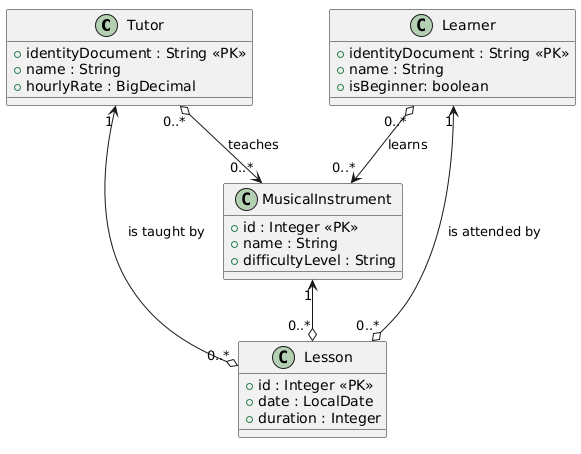
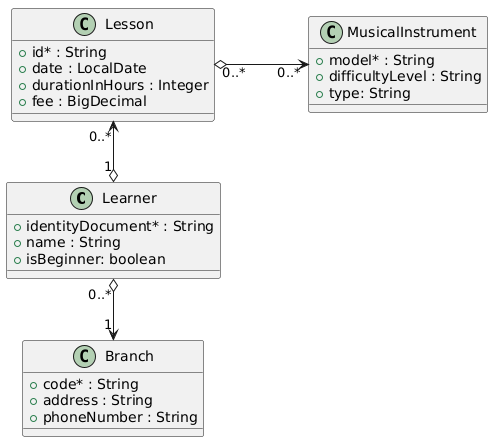
Refactor music-lesson domain model #842

diff --git a/src/main/java/es/upm/miw/apaw_practice/domain/models/music_lesson/Lesson.java b/src/main/java/es/upm/miw/apaw_practice/domain/models/music_lesson/Lesson.java
@@ -1,64 +1,47 @@
 package es.upm.miw.apaw_practice.domain.models.music_lesson;
 
+import java.math.BigDecimal;
 import java.time.LocalDate;
+import java.util.List;
 
 public class Lesson {
 
-  private Integer id;
+  private String id;
 
   private LocalDate date;
 
-  private Tutor tutor;
-
-  private Learner learner;
-
   private Integer durationInHours;
 
-  private MusicalInstrument musicalInstrument;
+  private BigDecimal fee;
+
+  private List<MusicalInstrument> musicalInstrument;
 
   public Lesson() {
     //Empty for framework
   }
 
-  public Lesson(Integer id, LocalDate date, Tutor tutor, Learner learner, Integer durationInHours, MusicalInstrument musicalInstrument) {
+  public Lesson(String id, LocalDate date, Integer durationInHours, BigDecimal fee, List<MusicalInstrument> musicalInstrument) {
     this.id = id;
     this.date = date;
-    this.tutor = tutor;
-    this.learner = learner;
     this.durationInHours = durationInHours;
+    this.fee = fee;
     this.musicalInstrument = musicalInstrument;
   }
 
-  public Integer getId() {
-    return this.id;
+  public String getId() {
+    return id;
   }
 
-  public void setId(Integer id) {
+  public void setId(String id) {
     this.id = id;
   }
 
   public LocalDate getDate() {
-    return this.date;
+    return date;
   }
 
   public void setDate(LocalDate date) {
     this.date = date;
-  }
-
-  public Tutor getTutor() {
-    return this.tutor;
-  }
-
-  public void setTutor(Tutor tutor) {
-    this.tutor = tutor;
-  }
-
-  public Learner getLearner() {
-    return this.learner;
-  }
-
-  public void setLearner(Learner learner) {
-    this.learner = learner;
   }
 
   public Integer getDurationInHours() {
@@ -69,23 +52,30 @@ public class Lesson {
     this.durationInHours = durationInHours;
   }
 
-  public MusicalInstrument getMusicalInstrument() {
-    return this.musicalInstrument;
+  public List<MusicalInstrument> getMusicalInstrument() {
+    return musicalInstrument;
   }
 
-  public void setMusicalInstrument(MusicalInstrument musicalInstrument) {
+  public void setMusicalInstrument(List<MusicalInstrument> musicalInstrument) {
     this.musicalInstrument = musicalInstrument;
+  }
+
+  public BigDecimal getFee() {
+    return fee;
+  }
+
+  public void setFee(BigDecimal fee) {
+    this.fee = fee;
   }
 
   @Override
   public String toString() {
     return "Lesson{" +
-        "id=" + this.id +
-        ", date=" + this.date +
-        ", tutor=" + this.tutor +
-        ", learner=" + this.learner +
-        ", durationInHours=" + this.durationInHours +
-        ", musicalInstrument=" + this.musicalInstrument +
+        "id='" + id + '\'' +
+        ", date=" + date +
+        ", durationInHours=" + durationInHours +
+        ", musicalInstrument=" + musicalInstrument +
+        ", fee=" + fee +
         '}';
   }
 }

diff --git a/src/main/java/es/upm/miw/apaw_practice/domain/models/music_lesson/Learner.java b/src/main/java/es/upm/miw/apaw_practice/domain/models/music_lesson/Learner.java
@@ -8,23 +8,26 @@ public class Learner {
 
   private String name;
 
-  private boolean isBeginner;
+  private Boolean isBeginner;
 
-  private List<MusicalInstrument> musicalInstruments;
+  private List<Lesson> lessons;
+
+  private Branch branch;
 
   public Learner() {
     //Empty for framework
   }
 
-  public Learner(String identityDocument, String name, boolean isBeginner, List<MusicalInstrument> musicalInstruments) {
+  public Learner(String identityDocument, String name, Boolean isBeginner, List<Lesson> lessons, Branch branch) {
     this.identityDocument = identityDocument;
     this.name = name;
     this.isBeginner = isBeginner;
-    this.musicalInstruments = musicalInstruments;
+    this.lessons = lessons;
+    this.branch = branch;
   }
 
   public String getIdentityDocument() {
-    return this.identityDocument;
+    return identityDocument;
   }
 
   public void setIdentityDocument(String identityDocument) {
@@ -39,29 +42,38 @@ public class Learner {
     this.name = name;
   }
 
-  public boolean isBeginner() {
-    return this.isBeginner;
+  public Boolean getBeginner() {
+    return isBeginner;
   }
 
-  public void setBeginner(boolean beginner) {
-    this.isBeginner = beginner;
+  public void setBeginner(Boolean beginner) {
+    isBeginner = beginner;
   }
 
-  public List<MusicalInstrument> getMusicalInstruments() {
-    return this.musicalInstruments;
+  public List<Lesson> getLessons() {
+    return lessons;
   }
 
-  public void setMusicalInstruments(List<MusicalInstrument> musicalInstruments) {
-    this.musicalInstruments = musicalInstruments;
+  public void setLessons(List<Lesson> lessons) {
+    this.lessons = lessons;
+  }
+
+  public Branch getBranch() {
+    return branch;
+  }
+
+  public void setBranch(Branch branch) {
+    this.branch = branch;
   }
 
   @Override
   public String toString() {
     return "Learner{" +
-        "identityDocument='" + this.identityDocument + '\'' +
-        ", name='" + this.name + '\'' +
-        ", isBeginner=" + this.isBeginner +
-        ", musicalInstruments=" + this.musicalInstruments +
+        "identityDocument='" + identityDocument + '\'' +
+        ", name='" + name + '\'' +
+        ", isBeginner=" + isBeginner +
+        ", lessons=" + lessons +
+        ", branch=" + branch +
         '}';
   }
 }

diff --git a/src/main/java/es/upm/miw/apaw_practice/domain/models/music_lesson/MusicalInstrument.java b/src/main/java/es/upm/miw/apaw_practice/domain/models/music_lesson/MusicalInstrument.java
@@ -2,52 +2,52 @@ package es.upm.miw.apaw_practice.domain.models.music_lesson;
 
 public class MusicalInstrument {
 
-  private Integer id;
-
-  private String name;
+  private String model;
 
   private String difficultyLevel;
+
+  private String type;
 
   public MusicalInstrument() {
     //Empty for framework
   }
 
-  public MusicalInstrument(Integer id, String name, String difficultyLevel) {
-    this.id = id;
-    this.name = name;
+  public MusicalInstrument(String model, String difficultyLevel, String type) {
+    this.model = model;
     this.difficultyLevel = difficultyLevel;
+    this.type = type;
   }
 
-  public Integer getId() {
-    return this.id;
+  public String getModel() {
+    return model;
   }
 
-  public void setId(Integer id) {
-    this.id = id;
-  }
-
-  public String getName() {
-    return this.name;
-  }
-
-  public void setName(String name) {
-    this.name = name;
+  public void setModel(String model) {
+    this.model = model;
   }
 
   public String getDifficultyLevel() {
-    return this.difficultyLevel;
+    return difficultyLevel;
   }
 
   public void setDifficultyLevel(String difficultyLevel) {
     this.difficultyLevel = difficultyLevel;
   }
 
+  public String getType() {
+    return type;
+  }
+
+  public void setType(String type) {
+    this.type = type;
+  }
+
   @Override
   public String toString() {
     return "MusicalInstrument{" +
-        "id=" + this.id +
-        ", name='" + this.name + '\'' +
-        ", difficultyLevel='" + this.difficultyLevel + '\'' +
+        "model='" + model + '\'' +
+        ", difficultyLevel='" + difficultyLevel + '\'' +
+        ", type='" + type + '\'' +
         '}';
   }
 }

diff --git a/src/main/java/es/upm/miw/apaw_practice/domain/models/music_lesson/Branch.java b/src/main/java/es/upm/miw/apaw_practice/domain/models/music_lesson/Branch.java
@@ -1,0 +1,53 @@
+package es.upm.miw.apaw_practice.domain.models.music_lesson;
+
+public class Branch {
+
+  private String code;
+
+  private String address;
+
+  private String phoneNumber;
+
+  public Branch() {
+    //Empty for framework
+  }
+
+  public Branch(String code, String address, String phoneNumber) {
+    this.code = code;
+    this.address = address;
+    this.phoneNumber = phoneNumber;
+  }
+
+  public String getCode() {
+    return code;
+  }
+
+  public void setCode(String code) {
+    this.code = code;
+  }
+
+  public String getAddress() {
+    return address;
+  }
+
+  public void setAddress(String address) {
+    this.address = address;
+  }
+
+  public String getPhoneNumber() {
+    return phoneNumber;
+  }
+
+  public void setPhoneNumber(String phoneNumber) {
+    this.phoneNumber = phoneNumber;
+  }
+
+  @Override
+  public String toString() {
+    return "Branch{" +
+        "code='" + code + '\'' +
+        ", address='" + address + '\'' +
+        ", phoneNumber='" + phoneNumber + '\'' +
+        '}';
+  }
+}
